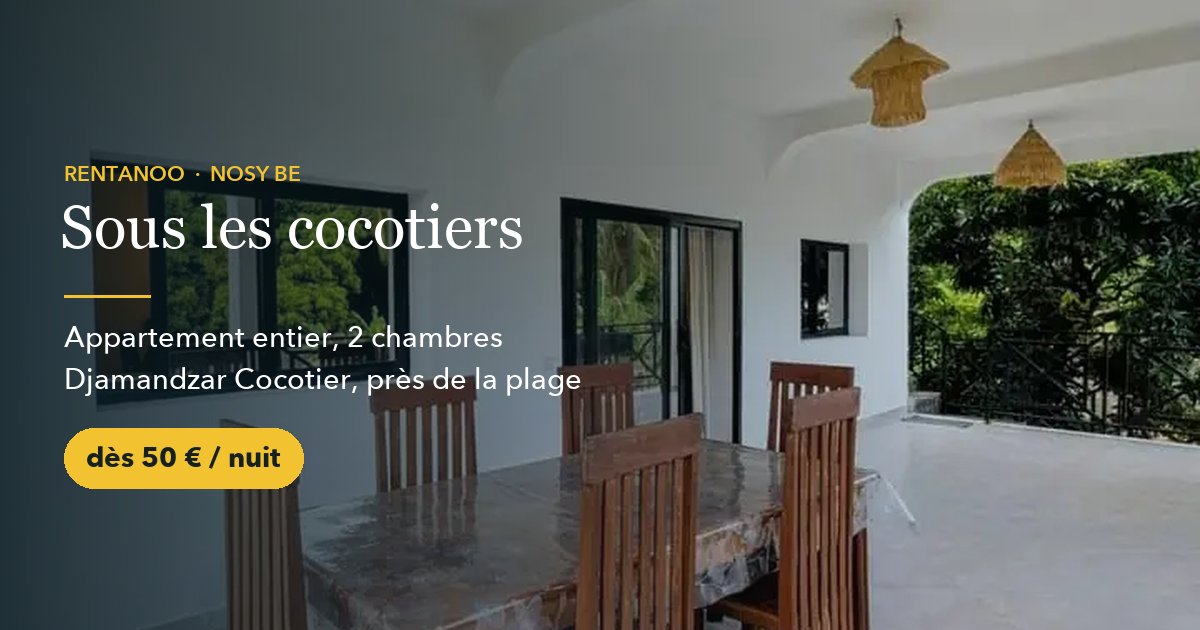
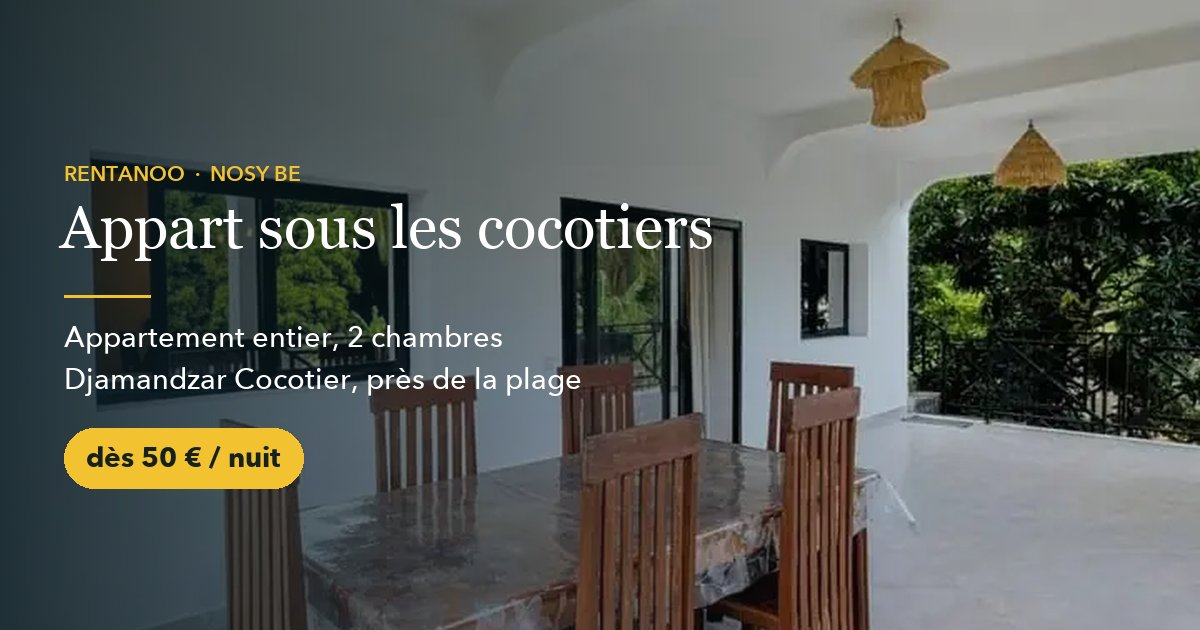
Nouvelle adresse appart-sous-les-cocotiers-dzamandzar.rentanoo.com, nom « Appart sous les cocotiers », bloc Taxi Food

Changed region(s): [[0.0308, 0.3317, 0.6167, 0.4222]]

diff --git a/index.html b/index.html
@@ -3,14 +3,14 @@
 <head>
 <meta charset="utf-8">
 <meta name="viewport" content="width=device-width, initial-scale=1">
-<title>Appartement 2 chambres sous les cocotiers, Djamandzar, Nosy Be — à deux pas de la plage</title>
+<title>Appart sous les cocotiers, Dzamandzar — 2 chambres à deux pas de la plage, Nosy Be</title>
 <meta name="description" content="Appartement entier de 2 chambres à Djamandzar Cocotier, Nosy Be, à deux pas de la plage : jusqu&#x27;à 4 personnes, grande terrasse, cuisine équipée, Wi-Fi Starlink, gardien. Meilleur tarif en direct.">
-<link rel="canonical" href="https://chambre-djamandzar.rentanoo.com/">
+<link rel="canonical" href="https://appart-sous-les-cocotiers-dzamandzar.rentanoo.com/">
 <meta name="robots" content="index, follow, max-image-preview:large, max-snippet:-1">
 <meta name="theme-color" content="#16211F">
 <meta name="author" content="Rentanoo">
 <meta name="geo.region" content="MG">
-<meta name="geo.placename" content="Djamandzar, Nosy Be">
+<meta name="geo.placename" content="Dzamandzar, Nosy Be">
 <link rel="icon" type="image/svg+xml" href="images/favicon.svg">
 
 <meta property="og:type" content="website">
@@ -18,23 +18,23 @@
 <meta property="og:locale" content="fr_FR">
 <meta property="og:locale:alternate" content="it_IT">
 <meta property="og:locale:alternate" content="en_US">
-<meta property="og:url" content="https://chambre-djamandzar.rentanoo.com/">
-<meta property="og:title" content="Sous les cocotiers — appartement 2 chambres près de la plage · Nosy Be">
+<meta property="og:url" content="https://appart-sous-les-cocotiers-dzamandzar.rentanoo.com/">
+<meta property="og:title" content="Appart sous les cocotiers, Dzamandzar — 2 chambres près de la plage · Nosy Be">
 <meta property="og:description" content="Appartement entier de 2 chambres à Djamandzar Cocotier, au milieu des cocotiers. Grande terrasse, cuisine équipée, Wi-Fi Starlink. Meilleur tarif en direct.">
-<meta property="og:image" content="https://chambre-djamandzar.rentanoo.com/images/og.jpg">
-<meta property="og:image:secure_url" content="https://chambre-djamandzar.rentanoo.com/images/og.jpg">
+<meta property="og:image" content="https://appart-sous-les-cocotiers-dzamandzar.rentanoo.com/images/og.jpg">
+<meta property="og:image:secure_url" content="https://appart-sous-les-cocotiers-dzamandzar.rentanoo.com/images/og.jpg">
 <meta property="og:image:type" content="image/jpeg">
 <meta property="og:image:width" content="1200">
 <meta property="og:image:height" content="630">
-<meta property="og:image:alt" content="Sous les cocotiers — Djamandzar, Nosy Be">
+<meta property="og:image:alt" content="Appart sous les cocotiers — Dzamandzar, Nosy Be">
 
 <meta name="twitter:card" content="summary_large_image">
-<meta name="twitter:title" content="Sous les cocotiers — appartement 2 chambres près de la plage · Nosy Be">
+<meta name="twitter:title" content="Appart sous les cocotiers, Dzamandzar — 2 chambres près de la plage · Nosy Be">
 <meta name="twitter:description" content="Appartement entier de 2 chambres à Djamandzar Cocotier, au milieu des cocotiers. Grande terrasse, cuisine équipée, Wi-Fi Starlink. Meilleur tarif en direct.">
-<meta name="twitter:image" content="https://chambre-djamandzar.rentanoo.com/images/og.jpg">
+<meta name="twitter:image" content="https://appart-sous-les-cocotiers-dzamandzar.rentanoo.com/images/og.jpg">
 
 <script type="application/ld+json">
-{"@type": "LodgingBusiness", "name": "Sous les cocotiers", "description": "Appartement entier à l'étage à Djamandzar Cocotier (Nosy Be), à deux pas de la plage : 2 chambres, jusqu'à 4 personnes, séjour avec TV, cuisine équipée, salle de bain avec douche et chauffe-eau, WC séparé, grande terrasse couverte avec barbecue, Wi-Fi Starlink, gardien, femme de ménage. Pas de climatisation (ventilateurs).", "url": "https://chambre-djamandzar.rentanoo.com/", "image": ["https://chambre-djamandzar.rentanoo.com/images/og.jpg", "https://chambre-djamandzar.rentanoo.com/images/repas-1.webp"], "telephone": "+261373437912", "email": "chrisrentanoo@gmail.com", "address": {"@type": "PostalAddress", "addressLocality": "Djamandzar", "addressRegion": "Nosy Be", "addressCountry": "MG"}, "areaServed": "Nosy Be", "amenityFeature": [{"@type": "LocationFeatureSpecification", "name": "Wifi Starlink", "value": true}, {"@type": "LocationFeatureSpecification", "name": "Salle de bain", "value": true}, {"@type": "LocationFeatureSpecification", "name": "Cuisine équipée", "value": true}, {"@type": "LocationFeatureSpecification", "name": "Terrasse", "value": true}, {"@type": "LocationFeatureSpecification", "name": "Barbecue", "value": true}, {"@type": "LocationFeatureSpecification", "name": "Gardien sur place", "value": true}, {"@type": "LocationFeatureSpecification", "name": "Femme de ménage", "value": true}, {"@type": "LocationFeatureSpecification", "name": "Espace de travail", "value": true}], "sameAs": ["https://rentanoo.com/hebergement/6D419168", "https://www.airbnb.fr/rooms/1805666649036033350", "https://www.booking.com/hotel/mg/appartement-2-chambres-sous-les-cocotiers-dzamandzar.html"], "numberOfRooms": 2, "priceRange": "À partir de 50 € la nuit", "currenciesAccepted": "EUR", "@context": "https://schema.org"}
+{"@type": "LodgingBusiness", "name": "Appart sous les cocotiers", "description": "Appartement entier à l'étage à Djamandzar Cocotier (Nosy Be), à deux pas de la plage : 2 chambres, jusqu'à 4 personnes, séjour avec TV, cuisine équipée, salle de bain avec douche et chauffe-eau, WC séparé, grande terrasse couverte avec barbecue, Wi-Fi Starlink, gardien, femme de ménage. Pas de climatisation (ventilateurs).", "url": "https://appart-sous-les-cocotiers-dzamandzar.rentanoo.com/", "image": ["https://appart-sous-les-cocotiers-dzamandzar.rentanoo.com/images/og.jpg", "https://appart-sous-les-cocotiers-dzamandzar.rentanoo.com/images/repas-1.webp"], "telephone": "+261373437912", "email": "chrisrentanoo@gmail.com", "address": {"@type": "PostalAddress", "addressLocality": "Dzamandzar", "addressRegion": "Nosy Be", "addressCountry": "MG"}, "areaServed": "Nosy Be", "amenityFeature": [{"@type": "LocationFeatureSpecification", "name": "Wifi Starlink", "value": true}, {"@type": "LocationFeatureSpecification", "name": "Salle de bain", "value": true}, {"@type": "LocationFeatureSpecification", "name": "Cuisine équipée", "value": true}, {"@type": "LocationFeatureSpecification", "name": "Terrasse", "value": true}, {"@type": "LocationFeatureSpecification", "name": "Barbecue", "value": true}, {"@type": "LocationFeatureSpecification", "name": "Gardien sur place", "value": true}, {"@type": "LocationFeatureSpecification", "name": "Femme de ménage", "value": true}, {"@type": "LocationFeatureSpecification", "name": "Espace de travail", "value": true}], "sameAs": ["https://rentanoo.com/hebergement/6D419168", "https://www.airbnb.fr/rooms/1805666649036033350", "https://www.booking.com/hotel/mg/appartement-2-chambres-sous-les-cocotiers-dzamandzar.html"], "numberOfRooms": 2, "priceRange": "À partir de 50 € la nuit", "currenciesAccepted": "EUR", "@context": "https://schema.org"}
 </script>
 
 <link rel="preconnect" href="https://fonts.googleapis.com">
@@ -230,6 +230,12 @@
   [data-reveal].in{opacity:1;transform:none}
   @media (prefers-reduced-motion:reduce){[data-reveal]{opacity:1;transform:none;transition:none}.hero picture img{animation:none}html{scroll-behavior:auto}}
 
+  .taxifood{padding:clamp(48px,6vw,80px) 0;background:#fff}
+  .tf-card{display:flex;gap:clamp(18px,4vw,40px);align-items:center;max-width:900px}
+  .tf-logo{width:clamp(96px,16vw,150px);height:auto;border-radius:24px;flex:none}
+  .tf-body .h2{margin:6px 0 10px}
+  .tf-body p{color:var(--ink-2)}
+  @media (max-width:640px){.tf-card{flex-direction:column;text-align:center}}
   .pf{min-height:52px}
   .pf-logo{height:24px;width:auto;display:block}
   .pf.best .pf-logo{height:26px}
@@ -275,7 +281,7 @@
 </svg>
 
 <header id="hdr">
-  <a class="brand" href="#top" aria-label="Sous les cocotiers"><b>Sous les cocotiers</b><small>Djamandzar · Nosy Be</small></a>
+  <a class="brand" href="#top" aria-label="Appart sous les cocotiers"><b>Appart sous les cocotiers</b><small>Dzamandzar · Nosy Be</small></a>
   <nav class="nav" aria-label="Navigation">
     <a class="nl" href="#presentation"><span data-i18n="k38">Le logement</span></a>
     <a class="nl" href="#pieces"><span data-i18n="k39">Pièce par pièce</span></a>
@@ -290,14 +296,14 @@
 </header>
 
 <main id="top">
-<section class="hero" aria-label="Sous les cocotiers">
+<section class="hero" aria-label="Appart sous les cocotiers">
   <picture>
     <source media="(max-width:760px)" srcset="images/repas-1-s.webp 613w, images/repas-1.webp 720w" sizes="100vw">
     <img src="images/repas-1.webp" alt="Appartement 2 chambres sous les cocotiers, terrasse couverte" width="720" height="940" fetchpriority="high">
   </picture>
   <div class="hero-in">
     <p data-i18n="k41" class="eyebrow">Djamandzar Cocotier · Nosy Be</p>
-    <h1>Sous les cocotiers</h1>
+    <h1>Appart sous les cocotiers</h1>
     <p data-i18n="k42" class="hero-sub">Un appartement entier de 2 chambres au milieu des cocotiers, à deux pas de la plage, avec grande terrasse et Wi-Fi Starlink.</p>
     <ul class="chips"><li><span data-i18n="k1">Appartement entier</span></li><li><span data-i18n="k2">Jusqu'à 4 personnes</span></li><li><span data-i18n="k3">Wifi Starlink</span></li><li><span data-i18n="k4">Minimum 3 nuits</span></li></ul>
     <div class="hero-row">
@@ -320,7 +326,7 @@
       
       
     </div>
-    <div class="mosaic" data-reveal><img src="images/repas-1-s.webp" srcset="images/repas-1-s.webp 613w, images/repas-1.webp 720w" sizes="(max-width:860px) 50vw, 25vw" alt="Sous les cocotiers" width="613" height="800" loading="lazy"><img src="images/chambre-1-s.webp" srcset="images/chambre-1-s.webp 600w, images/chambre-1.webp 718w" sizes="(max-width:860px) 50vw, 25vw" alt="Sous les cocotiers" width="600" height="800" loading="lazy"><img src="images/salon-1-s.webp" srcset="images/salon-1-s.webp 720w, images/salon-1.webp 720w" sizes="(max-width:860px) 50vw, 25vw" alt="Sous les cocotiers" width="720" height="549" loading="lazy"></div>
+    <div class="mosaic" data-reveal><img src="images/repas-1-s.webp" srcset="images/repas-1-s.webp 613w, images/repas-1.webp 720w" sizes="(max-width:860px) 50vw, 25vw" alt="Appart sous les cocotiers" width="613" height="800" loading="lazy"><img src="images/chambre-1-s.webp" srcset="images/chambre-1-s.webp 600w, images/chambre-1.webp 718w" sizes="(max-width:860px) 50vw, 25vw" alt="Appart sous les cocotiers" width="600" height="800" loading="lazy"><img src="images/salon-1-s.webp" srcset="images/salon-1-s.webp 720w, images/salon-1.webp 720w" sizes="(max-width:860px) 50vw, 25vw" alt="Appart sous les cocotiers" width="720" height="549" loading="lazy"></div>
   </div>
 </section>
 
@@ -392,13 +398,25 @@
   </div>
 </section>
 
+<section class="taxifood" id="taxi-food" aria-label="Taxi Food, livraison de repas">
+  <div class="wrap tf-card" data-reveal>
+    <img class="tf-logo" src="images/taxifood-logo.webp" width="256" height="256" alt="Logo Taxi Food Nosy Be" loading="lazy" decoding="async">
+    <div class="tf-body">
+      <p data-i18n="k48" class="eyebrow">Taxi Food · Livraison à Nosy Be</p>
+      <h2 data-i18n="k49" class="h2">La flemme de cuisiner ? Faites-vous livrer.</h2>
+      <p data-i18n="k50">Avec Taxi Food, commandez auprès des restaurants de Nosy Be et faites-vous livrer directement au logement. Pizza, burger, tacos ou crêpes : il ne reste plus qu'à mettre les pieds sous la table.</p>
+      <a class="btn btn-cta" href="https://taxifoodnosybe.distripro207.com/" target="_blank" rel="noopener"><span data-i18n="k51">Commander sur Taxi Food</span></a>
+    </div>
+  </div>
+</section>
+
 <section class="host" aria-label="Votre hôte">
   <div class="wrap host-grid">
     <img src="images/chris.webp" alt="Chris, Rentanoo" width="1000" height="1090" loading="lazy" data-reveal>
     <div data-reveal>
       <p data-i18n="host-eyebrow" class="eyebrow">Réservation</p>
       <h2 data-i18n="host-title" class="h2">Bonjour, c'est Chris</h2>
-      <p data-i18n="k48">Avec Rentanoo, j'accueille des voyageurs à Nosy Be toute l'année et je gère les réservations de plusieurs logements sur l'île, dont celui-ci. Mon métier : vous rendre le séjour facile.</p>
+      <p data-i18n="k52">Avec Rentanoo, j'accueille des voyageurs à Nosy Be toute l'année et je gère les réservations de plusieurs logements sur l'île, dont celui-ci. Mon métier : vous rendre le séjour facile.</p>
       <p data-i18n="host-2">Je réponds vite, du matin au soir, en français, en anglais ou en italien.</p>
       <p style="font-weight:600;color:var(--ink);margin-top:22px"><span data-i18n="svc-title">Sur demande, Rentanoo organise aussi :</span></p>
       <div class="svc">
@@ -421,7 +439,7 @@
     </div>
     <form id="resa-form" novalidate data-reveal>
       <div class="resa-grid">
-        <input type="hidden" name="logement" value="Sous les cocotiers">
+        <input type="hidden" name="logement" value="Appart sous les cocotiers">
         <label class="resa-field"><span data-i18n="f-in">Arrivée</span><input type="date" name="arrivee" required></label>
         <label class="resa-field"><span data-i18n="f-out">Départ</span><input type="date" name="depart" required></label>
         <label class="resa-field full"><span data-i18n="f-guests">Voyageurs</span><select name="voyageurs"><option>1</option><option selected>2</option><option>3</option><option>4</option></select></label>
@@ -439,7 +457,7 @@
       <span data-i18n="alt-text">Vous préférez écrire ?</span>
       <div class="row">
         <a class="btn btn-wa" href="#" data-wa="resa"><svg><use href="#i-wa"/></svg>WhatsApp +261 37 34 379 12</a>
-        <a class="btn btn-ghost" href="mailto:chrisrentanoo@gmail.com?subject=Sous les cocotiers">chrisrentanoo@gmail.com</a>
+        <a class="btn btn-ghost" href="mailto:chrisrentanoo@gmail.com?subject=Appart sous les cocotiers">chrisrentanoo@gmail.com</a>
       </div>
     </div>
   </div>
@@ -456,7 +474,7 @@
 
 <footer>
   <div class="wrap">
-    <div><b style="color:#fff;font-family:'Fraunces',serif;font-weight:400;font-size:18px">Sous les cocotiers</b><br>Djamandzar, Nosy Be · Madagascar</div>
+    <div><b style="color:#fff;font-family:'Fraunces',serif;font-weight:400;font-size:18px">Appart sous les cocotiers</b><br>Dzamandzar, Nosy Be · Madagascar</div>
     <div><a href="#" data-wa="footer">WhatsApp +261 37 34 379 12</a><br><a href="mailto:chrisrentanoo@gmail.com">chrisrentanoo@gmail.com</a></div>
     <a class="powered" href="https://rentanoo.com" target="_blank" rel="noopener"><span data-i18n="ft-powered">Site propulsé par</span> <img src="images/rentanoo-logo.webp" alt="Rentanoo" width="520" height="132" loading="lazy"></a>
   </div>
@@ -514,11 +532,11 @@ if('IntersectionObserver' in window){var io=new IntersectionObserver(function(es
 else document.querySelectorAll('[data-reveal]').forEach(function(el){el.classList.add('in')});
 
 /* Traductions : FR dans le HTML, IT/EN ici (générées par build.py, clé = data-i18n) */
-var T={"k1": {"it": "Appartamento intero", "en": "Whole apartment"}, "k2": {"it": "Fino a 4 persone", "en": "Up to 4 guests"}, "k3": {"it": "Wi-Fi Starlink", "en": "Starlink Wi-Fi"}, "k4": {"it": "Minimo 3 notti", "en": "3-night minimum"}, "k5": {"it": "Appartamento intero, 2 camere", "en": "Whole apartment, 2 bedrooms"}, "k6": {"it": "Fino a 4 persone", "en": "Up to 4 guests"}, "k7": {"it": "A due passi dalla spiaggia", "en": "A short walk from the beach"}, "k8": {"it": "Wi-Fi Starlink", "en": "Starlink Wi-Fi"}, "k9": {"it": "Grande terrazza con barbecue", "en": "Large terrace with barbecue"}, "k10": {"it": "Netflix sulla TV del soggiorno", "en": "Netflix on the living-room TV"}, "k11": {"it": "Custode sul posto", "en": "Caretaker on site"}, "k12": {"it": "Governante", "en": "Housekeeper"}, "k13": {"it": "Un appartamento intero al primo piano, a Djamandzar Cocotier, a due passi dalla spiaggia.", "en": "A whole upstairs apartment in Djamandzar Cocotier, a short walk from the beach."}, "k14": {"it": "2 camere, un soggiorno luminoso con TV e Netflix, una cucina attrezzata con bancone, un bagno con doppio lavabo, doccia e scaldabagno, e un WC separato. Fuori, una grande terrazza coperta con tavolo e barbecue, davanti al giardino e alle palme.", "en": "2 bedrooms, a bright living room with TV and Netflix, an equipped kitchen with a bar, a bathroom with a double basin, shower and water heater, and a separate WC. Outside, a large covered terrace with a table and barbecue, facing the garden and the palms."}, "k15": {"it": "Wi-Fi Starlink e spazio per lavorare. Niente aria condizionata: ventilatori a parete in soggiorno e 2 ventilatori per camera, vetri anti-calore e zanzariere ovunque. Custode e governante sul posto.", "en": "Starlink Wi-Fi and a spot to work from. No air conditioning: wall fans in the living room and 2 fans in each bedroom, heat-filtering windows and mosquito screens throughout. Caretaker and housekeeper on site."}, "k16": {"it": "A due passi dai ristoranti del Nosy Be Hotel e dai bar di Djamandzar.", "en": "A stone's throw from the Nosy Be Hotel restaurants and the bars of Djamandzar."}, "k17": {"it": "Le camere", "en": "The bedrooms"}, "k18": {"it": "2 camere", "en": "2 bedrooms"}, "k19": {"it": "Fino a 4 persone", "en": "Up to 4 guests"}, "k20": {"it": "Soggiorno minimo 3 notti", "en": "3-night minimum stay"}, "k21": {"it": "Cancellazione gratuita fino a 72 ore prima dell'arrivo", "en": "Free cancellation up to 72 h before arrival"}, "k22": {"it": "Massimo 4 persone", "en": "4 guests maximum"}, "k23": {"it": "Le 2 camere", "en": "The 2 bedrooms"}, "k24": {"it": "Due camere, ognuna con 2 ventilatori, vetri anti-calore e zanzariere.", "en": "Two bedrooms, each with 2 fans, heat-filtering windows and mosquito screens."}, "see-photos": {"it": "Vedi le foto", "en": "See the photos"}, "k25": {"it": "Soggiorno, cucina e terrazza", "en": "Living room, kitchen & terrace"}, "k26": {"it": "Cucina attrezzata", "en": "Equipped kitchen"}, "k27": {"it": "Terrazza", "en": "Terrace"}, "k28": {"it": "Barbecue", "en": "Barbecue"}, "k29": {"it": "Soggiorno, cucina e terrazza", "en": "Living room, kitchen & terrace"}, "k30": {"it": "Una cucina attrezzata con bancone e sgabelli, un soggiorno con TV e Netflix, e una grande terrazza coperta con tavolo e barbecue, davanti al giardino.", "en": "An equipped kitchen with a bar and stools, a living room with TV and Netflix, and a large covered terrace with a table and barbecue, facing the garden."}, "k31": {"it": "Bagno", "en": "Bathroom"}, "k32": {"it": "Doccia", "en": "Shower"}, "k33": {"it": "Acqua calda", "en": "Hot water"}, "k34": {"it": "WC separato", "en": "Separate WC"}, "k35": {"it": "Il bagno", "en": "The bathroom"}, "k36": {"it": "Un bagno con doppio lavabo, doccia e scaldabagno, e un WC separato.", "en": "A bathroom with a double basin, shower and water heater, plus a separate WC."}, "from": {"it": "da", "en": "from"}, "per-night": {"it": "a notte", "en": "per night"}, "k37": {"it": "La tariffa migliore è prenotando direttamente · risposta rapida su WhatsApp", "en": "The best rate is when you book direct · quick reply on WhatsApp"}, "cta-book": {"it": "Prenota", "en": "Book"}, "cta-dates": {"it": "Chiedi le tue date", "en": "Request your dates"}, "best": {"it": "Tariffa migliore prenotando direttamente", "en": "Best rate when you book direct"}, "pf-best": {"it": "Tariffa migliore", "en": "Best rate"}, "k38": {"it": "L'alloggio", "en": "The place"}, "k39": {"it": "Stanza per stanza", "en": "Room by room"}, "k40": {"it": "Il quartiere", "en": "The area"}, "k41": {"it": "Djamandzar Cocotier · Nosy Be", "en": "Djamandzar Cocotier · Nosy Be"}, "k42": {"it": "Un appartamento intero con 2 camere tra le palme da cocco, a due passi dalla spiaggia, con grande terrazza e Wi-Fi Starlink.", "en": "A whole 2-bedroom apartment among the coconut palms, a short walk from the beach, with a large terrace and Starlink Wi-Fi."}, "k43": {"it": "Appartamento intero", "en": "Whole apartment"}, "k44": {"it": "Tra le palme da cocco", "en": "Among the coconut palms"}, "direct-eyebrow": {"it": "Prenota direttamente", "en": "Book direct"}, "direct-title": {"it": "La tariffa migliore è qui", "en": "The best rate is here"}, "direct-text": {"it": "Sulle piattaforme il prezzo a notte include le loro commissioni. Prenotando direttamente con noi pagate meno: inviateci le date e vi rispondiamo con il prezzo migliore.", "en": "On booking platforms, the nightly price includes their commissions. Book directly with us and you pay less: send us your dates and we reply with the best price."}, "direct-1": {"it": "Più conveniente delle piattaforme per le stesse date", "en": "Cheaper than the platforms for the same dates"}, "direct-2": {"it": "Parlate direttamente con noi, risposta rapida su WhatsApp", "en": "You talk directly to us, quick replies on WhatsApp"}, "direct-3": {"it": "Transfer, scooter, auto o escursione organizzati subito", "en": "Transfer, scooter, car or excursion arranged in one go"}, "rooms-eyebrow": {"it": "Stanza per stanza", "en": "Room by room"}, "k45": {"it": "Visitate l'alloggio", "en": "Take the tour"}, "rooms-lead": {"it": "Tutte le foto sono dell'alloggio. Toccate una foto per ingrandirla.", "en": "All photos are of the place itself. Tap a photo to enlarge it."}, "area-eyebrow": {"it": "Il quartiere", "en": "The area"}, "k46": {"it": "Djamandzar, tra le palme da cocco", "en": "Djamandzar, among the coconut palms"}, "k47": {"it": "Djamandzar Cocotier, sulla costa ovest di Nosy Be: la spiaggia a due passi, i ristoranti del Nosy Be Hotel e i bar della zona vicinissimi.", "en": "Djamandzar Cocotier, on the west coast of Nosy Be: the beach a short walk away, the Nosy Be Hotel restaurants and the local bars close by."}, "host-eyebrow": {"it": "Prenotazione", "en": "Booking"}, "host-title": {"it": "Ciao, sono Chris", "en": "Hi, I'm Chris"}, "k48": {"it": "Con Rentanoo accolgo viaggiatori a Nosy Be tutto l'anno e gestisco le prenotazioni di diversi alloggi sull'isola, tra cui questo. Il mio lavoro è rendervi il soggiorno facile.", "en": "With Rentanoo I welcome travellers to Nosy Be all year round and handle bookings for several places on the island, including this one. My job is to make your stay easy."}, "host-2": {"it": "Rispondo rapidamente, dalla mattina alla sera, in francese, inglese o italiano.", "en": "I reply quickly, from morning to evening, in French, English or Italian."}, "svc-title": {"it": "Su richiesta, Rentanoo organizza anche:", "en": "On request, Rentanoo also arranges:"}, "svc-1": {"it": "Transfer dall'aeroporto", "en": "Airport transfer"}, "svc-2": {"it": "Noleggio di scooter o quad", "en": "Scooter or quad rental"}, "svc-3": {"it": "Escursioni e taxi-boat", "en": "Excursions and taxi-boat"}, "svc-4": {"it": "Auto con o senza autista", "en": "Car with or without a driver"}, "resa-eyebrow": {"it": "Prenotazione", "en": "Booking"}, "resa-title": {"it": "Chiedete le vostre date", "en": "Request your dates"}, "resa-text": {"it": "Scegliete le date e lasciateci i vostri recapiti: vi ricontattiamo molto presto con la disponibilità e il prezzo migliore.", "en": "Pick your dates and leave your details: we will get back to you very quickly with availability and the best price."}, "f-in": {"it": "Arrivo", "en": "Check-in"}, "f-out": {"it": "Partenza", "en": "Check-out"}, "f-guests": {"it": "Ospiti", "en": "Guests"}, "f-first": {"it": "Nome", "en": "First name"}, "f-last": {"it": "Cognome", "en": "Last name"}, "f-tel": {"it": "Telefono (WhatsApp)", "en": "Phone (WhatsApp)"}, "f-mail": {"it": "E-mail", "en": "Email"}, "f-msg": {"it": "Messaggio (facoltativo): transfer, scooter, escursione…", "en": "Message (optional): transfer, scooter, excursion…"}, "f-send": {"it": "Invia la richiesta", "en": "Send my request"}, "f-free": {"it": "Gratis e senza impegno · risposta rapida", "en": "Free, no commitment · quick reply"}, "alt-text": {"it": "Preferite scrivere?", "en": "Prefer to write?"}, "pf-eyebrow": {"it": "Anche online su", "en": "Also listed on"}, "pf-text": {"it": "Preferite passare da una piattaforma? Trovate l'alloggio qui.", "en": "Prefer to use a platform? Find the place here."}, "ft-powered": {"it": "Sito realizzato da", "en": "Site powered by"}};
-var TITLE={"fr": "Appartement 2 chambres sous les cocotiers, Djamandzar, Nosy Be — à deux pas de la plage", "it": "Appartamento con 2 camere a Djamandzar Cocotier, Nosy Be — a due passi dalla spiaggia", "en": "2-bedroom apartment at Djamandzar Cocotier, Nosy Be — a short walk from the beach"};
+var T={"k1": {"it": "Appartamento intero", "en": "Whole apartment"}, "k2": {"it": "Fino a 4 persone", "en": "Up to 4 guests"}, "k3": {"it": "Wi-Fi Starlink", "en": "Starlink Wi-Fi"}, "k4": {"it": "Minimo 3 notti", "en": "3-night minimum"}, "k5": {"it": "Appartamento intero, 2 camere", "en": "Whole apartment, 2 bedrooms"}, "k6": {"it": "Fino a 4 persone", "en": "Up to 4 guests"}, "k7": {"it": "A due passi dalla spiaggia", "en": "A short walk from the beach"}, "k8": {"it": "Wi-Fi Starlink", "en": "Starlink Wi-Fi"}, "k9": {"it": "Grande terrazza con barbecue", "en": "Large terrace with barbecue"}, "k10": {"it": "Netflix sulla TV del soggiorno", "en": "Netflix on the living-room TV"}, "k11": {"it": "Custode sul posto", "en": "Caretaker on site"}, "k12": {"it": "Governante", "en": "Housekeeper"}, "k13": {"it": "Un appartamento intero al primo piano, a Djamandzar Cocotier, a due passi dalla spiaggia.", "en": "A whole upstairs apartment in Djamandzar Cocotier, a short walk from the beach."}, "k14": {"it": "2 camere, un soggiorno luminoso con TV e Netflix, una cucina attrezzata con bancone, un bagno con doppio lavabo, doccia e scaldabagno, e un WC separato. Fuori, una grande terrazza coperta con tavolo e barbecue, davanti al giardino e alle palme.", "en": "2 bedrooms, a bright living room with TV and Netflix, an equipped kitchen with a bar, a bathroom with a double basin, shower and water heater, and a separate WC. Outside, a large covered terrace with a table and barbecue, facing the garden and the palms."}, "k15": {"it": "Wi-Fi Starlink e spazio per lavorare. Niente aria condizionata: ventilatori a parete in soggiorno e 2 ventilatori per camera, vetri anti-calore e zanzariere ovunque. Custode e governante sul posto.", "en": "Starlink Wi-Fi and a spot to work from. No air conditioning: wall fans in the living room and 2 fans in each bedroom, heat-filtering windows and mosquito screens throughout. Caretaker and housekeeper on site."}, "k16": {"it": "A due passi dai ristoranti del Nosy Be Hotel e dai bar di Djamandzar.", "en": "A stone's throw from the Nosy Be Hotel restaurants and the bars of Djamandzar."}, "k17": {"it": "Le camere", "en": "The bedrooms"}, "k18": {"it": "2 camere", "en": "2 bedrooms"}, "k19": {"it": "Fino a 4 persone", "en": "Up to 4 guests"}, "k20": {"it": "Soggiorno minimo 3 notti", "en": "3-night minimum stay"}, "k21": {"it": "Cancellazione gratuita fino a 72 ore prima dell'arrivo", "en": "Free cancellation up to 72 h before arrival"}, "k22": {"it": "Massimo 4 persone", "en": "4 guests maximum"}, "k23": {"it": "Le 2 camere", "en": "The 2 bedrooms"}, "k24": {"it": "Due camere, ognuna con 2 ventilatori, vetri anti-calore e zanzariere.", "en": "Two bedrooms, each with 2 fans, heat-filtering windows and mosquito screens."}, "see-photos": {"it": "Vedi le foto", "en": "See the photos"}, "k25": {"it": "Soggiorno, cucina e terrazza", "en": "Living room, kitchen & terrace"}, "k26": {"it": "Cucina attrezzata", "en": "Equipped kitchen"}, "k27": {"it": "Terrazza", "en": "Terrace"}, "k28": {"it": "Barbecue", "en": "Barbecue"}, "k29": {"it": "Soggiorno, cucina e terrazza", "en": "Living room, kitchen & terrace"}, "k30": {"it": "Una cucina attrezzata con bancone e sgabelli, un soggiorno con TV e Netflix, e una grande terrazza coperta con tavolo e barbecue, davanti al giardino.", "en": "An equipped kitchen with a bar and stools, a living room with TV and Netflix, and a large covered terrace with a table and barbecue, facing the garden."}, "k31": {"it": "Bagno", "en": "Bathroom"}, "k32": {"it": "Doccia", "en": "Shower"}, "k33": {"it": "Acqua calda", "en": "Hot water"}, "k34": {"it": "WC separato", "en": "Separate WC"}, "k35": {"it": "Il bagno", "en": "The bathroom"}, "k36": {"it": "Un bagno con doppio lavabo, doccia e scaldabagno, e un WC separato.", "en": "A bathroom with a double basin, shower and water heater, plus a separate WC."}, "from": {"it": "da", "en": "from"}, "per-night": {"it": "a notte", "en": "per night"}, "k37": {"it": "La tariffa migliore è prenotando direttamente · risposta rapida su WhatsApp", "en": "The best rate is when you book direct · quick reply on WhatsApp"}, "cta-book": {"it": "Prenota", "en": "Book"}, "cta-dates": {"it": "Chiedi le tue date", "en": "Request your dates"}, "best": {"it": "Tariffa migliore prenotando direttamente", "en": "Best rate when you book direct"}, "pf-best": {"it": "Tariffa migliore", "en": "Best rate"}, "k38": {"it": "L'alloggio", "en": "The place"}, "k39": {"it": "Stanza per stanza", "en": "Room by room"}, "k40": {"it": "Il quartiere", "en": "The area"}, "k41": {"it": "Djamandzar Cocotier · Nosy Be", "en": "Djamandzar Cocotier · Nosy Be"}, "k42": {"it": "Un appartamento intero con 2 camere tra le palme da cocco, a due passi dalla spiaggia, con grande terrazza e Wi-Fi Starlink.", "en": "A whole 2-bedroom apartment among the coconut palms, a short walk from the beach, with a large terrace and Starlink Wi-Fi."}, "k43": {"it": "Appartamento intero", "en": "Whole apartment"}, "k44": {"it": "Tra le palme da cocco", "en": "Among the coconut palms"}, "direct-eyebrow": {"it": "Prenota direttamente", "en": "Book direct"}, "direct-title": {"it": "La tariffa migliore è qui", "en": "The best rate is here"}, "direct-text": {"it": "Sulle piattaforme il prezzo a notte include le loro commissioni. Prenotando direttamente con noi pagate meno: inviateci le date e vi rispondiamo con il prezzo migliore.", "en": "On booking platforms, the nightly price includes their commissions. Book directly with us and you pay less: send us your dates and we reply with the best price."}, "direct-1": {"it": "Più conveniente delle piattaforme per le stesse date", "en": "Cheaper than the platforms for the same dates"}, "direct-2": {"it": "Parlate direttamente con noi, risposta rapida su WhatsApp", "en": "You talk directly to us, quick replies on WhatsApp"}, "direct-3": {"it": "Transfer, scooter, auto o escursione organizzati subito", "en": "Transfer, scooter, car or excursion arranged in one go"}, "rooms-eyebrow": {"it": "Stanza per stanza", "en": "Room by room"}, "k45": {"it": "Visitate l'alloggio", "en": "Take the tour"}, "rooms-lead": {"it": "Tutte le foto sono dell'alloggio. Toccate una foto per ingrandirla.", "en": "All photos are of the place itself. Tap a photo to enlarge it."}, "area-eyebrow": {"it": "Il quartiere", "en": "The area"}, "k46": {"it": "Djamandzar, tra le palme da cocco", "en": "Djamandzar, among the coconut palms"}, "k47": {"it": "Djamandzar Cocotier, sulla costa ovest di Nosy Be: la spiaggia a due passi, i ristoranti del Nosy Be Hotel e i bar della zona vicinissimi.", "en": "Djamandzar Cocotier, on the west coast of Nosy Be: the beach a short walk away, the Nosy Be Hotel restaurants and the local bars close by."}, "k48": {"it": "Taxi Food · Consegna a Nosy Be", "en": "Taxi Food · Delivery in Nosy Be"}, "k49": {"it": "Niente voglia di cucinare? Fatevi consegnare.", "en": "Not in the mood to cook? Get it delivered."}, "k50": {"it": "Con Taxi Food ordinate dai ristoranti di Nosy Be e fatevi consegnare direttamente all'alloggio. Pizza, burger, tacos o crêpes: basta mettersi a tavola.", "en": "With Taxi Food, order from Nosy Be's restaurants and have it delivered straight to your door. Pizza, burgers, tacos or crêpes: just sit down and enjoy."}, "k51": {"it": "Ordina su Taxi Food", "en": "Order on Taxi Food"}, "host-eyebrow": {"it": "Prenotazione", "en": "Booking"}, "host-title": {"it": "Ciao, sono Chris", "en": "Hi, I'm Chris"}, "k52": {"it": "Con Rentanoo accolgo viaggiatori a Nosy Be tutto l'anno e gestisco le prenotazioni di diversi alloggi sull'isola, tra cui questo. Il mio lavoro è rendervi il soggiorno facile.", "en": "With Rentanoo I welcome travellers to Nosy Be all year round and handle bookings for several places on the island, including this one. My job is to make your stay easy."}, "host-2": {"it": "Rispondo rapidamente, dalla mattina alla sera, in francese, inglese o italiano.", "en": "I reply quickly, from morning to evening, in French, English or Italian."}, "svc-title": {"it": "Su richiesta, Rentanoo organizza anche:", "en": "On request, Rentanoo also arranges:"}, "svc-1": {"it": "Transfer dall'aeroporto", "en": "Airport transfer"}, "svc-2": {"it": "Noleggio di scooter o quad", "en": "Scooter or quad rental"}, "svc-3": {"it": "Escursioni e taxi-boat", "en": "Excursions and taxi-boat"}, "svc-4": {"it": "Auto con o senza autista", "en": "Car with or without a driver"}, "resa-eyebrow": {"it": "Prenotazione", "en": "Booking"}, "resa-title": {"it": "Chiedete le vostre date", "en": "Request your dates"}, "resa-text": {"it": "Scegliete le date e lasciateci i vostri recapiti: vi ricontattiamo molto presto con la disponibilità e il prezzo migliore.", "en": "Pick your dates and leave your details: we will get back to you very quickly with availability and the best price."}, "f-in": {"it": "Arrivo", "en": "Check-in"}, "f-out": {"it": "Partenza", "en": "Check-out"}, "f-guests": {"it": "Ospiti", "en": "Guests"}, "f-first": {"it": "Nome", "en": "First name"}, "f-last": {"it": "Cognome", "en": "Last name"}, "f-tel": {"it": "Telefono (WhatsApp)", "en": "Phone (WhatsApp)"}, "f-mail": {"it": "E-mail", "en": "Email"}, "f-msg": {"it": "Messaggio (facoltativo): transfer, scooter, escursione…", "en": "Message (optional): transfer, scooter, excursion…"}, "f-send": {"it": "Invia la richiesta", "en": "Send my request"}, "f-free": {"it": "Gratis e senza impegno · risposta rapida", "en": "Free, no commitment · quick reply"}, "alt-text": {"it": "Preferite scrivere?", "en": "Prefer to write?"}, "pf-eyebrow": {"it": "Anche online su", "en": "Also listed on"}, "pf-text": {"it": "Preferite passare da una piattaforma? Trovate l'alloggio qui.", "en": "Prefer to use a platform? Find the place here."}, "ft-powered": {"it": "Sito realizzato da", "en": "Site powered by"}};
+var TITLE={"fr": "Appart sous les cocotiers, Dzamandzar — 2 chambres à deux pas de la plage, Nosy Be", "it": "Appartamento sotto le palme, Dzamandzar — 2 camere a due passi dalla spiaggia, Nosy Be", "en": "Apartment under the palms, Dzamandzar — 2 bedrooms a short walk from the beach, Nosy Be"};
 var MSG={"ok": {"fr": "✅ Demande envoyée ! Un e-mail de confirmation arrive dans votre boîte. On revient vers vous très vite.", "it": "✅ Richiesta inviata! Vi ricontattiamo molto presto.", "en": "✅ Request sent! We'll get back to you very soon."}, "req": {"fr": "Merci de remplir les champs requis.", "it": "Compilate i campi obbligatori.", "en": "Please fill in the required fields."}, "dates": {"fr": "La date de départ doit être après l'arrivée.", "it": "La data di partenza deve essere dopo l'arrivo.", "en": "Check-out must be after check-in."}, "err": {"fr": "Une erreur est survenue. Réessayez, ou écrivez-nous à ", "it": "Si è verificato un errore. Riprovate o scriveteci a ", "en": "Something went wrong. Please try again, or write to "}, "sending": {"fr": "Envoi…", "it": "Invio…", "en": "Sending…"}};
 var WA_NUM='261373437912';
-var WA_TXT={"fr": "Bonjour, je suis intéressé(e) par Sous les cocotiers à Nosy Be. Mes dates : ", "it": "Buongiorno, sono interessato/a a Sous les cocotiers a Nosy Be. Le mie date: ", "en": "Hello, I'm interested in Sous les cocotiers in Nosy Be. My dates: "};
+var WA_TXT={"fr": "Bonjour, je suis intéressé(e) par Appart sous les cocotiers à Nosy Be. Mes dates : ", "it": "Buongiorno, sono interessato/a a Appart sous les cocotiers a Nosy Be. Le mie date: ", "en": "Hello, I'm interested in Appart sous les cocotiers in Nosy Be. My dates: "};
 var lang='fr';
 document.querySelectorAll('[data-i18n]').forEach(function(el){el._fr=el.innerHTML});
 function setLang(l){
@@ -527,16 +545,16 @@ function setLang(l){
   document.documentElement.lang=lang; document.title=TITLE[lang];
   document.querySelectorAll('.langs button').forEach(function(b){b.setAttribute('aria-pressed',b.getAttribute('data-lang')===lang?'true':'false')});
   document.querySelectorAll('[data-wa]').forEach(function(a){a.href='https://wa.me/'+WA_NUM+'?text='+encodeURIComponent(WA_TXT[lang]);a.target='_blank';a.rel='noopener'});
-  try{localStorage.setItem('chambre-djamandzar_lang',lang)}catch(e){}
+  try{localStorage.setItem('appart-sous-les-cocotiers-dzamandzar_lang',lang)}catch(e){}
 }
 document.querySelectorAll('.langs button').forEach(function(b){b.addEventListener('click',function(){setLang(b.getAttribute('data-lang'))})});
-(function(){var q=(location.search.match(/[?&]lang=(fr|it|en)/)||[])[1],s=null;try{s=localStorage.getItem('chambre-djamandzar_lang')}catch(e){}
+(function(){var q=(location.search.match(/[?&]lang=(fr|it|en)/)||[])[1],s=null;try{s=localStorage.getItem('appart-sous-les-cocotiers-dzamandzar_lang')}catch(e){}
   var nav=(navigator.language||'fr').slice(0,2);setLang(q||s||(nav==='it'||nav==='en'?nav:'fr'));})();
 
-/* Formulaire → webhook n8n « reservation » (workflow W3E3K3avrQ60mgWg, site 'chambre-djamandzar') */
+/* Formulaire → webhook n8n « reservation » (workflow W3E3K3avrQ60mgWg, site 'appart-sous-les-cocotiers-dzamandzar') */
 (function(){
   var form=document.getElementById('resa-form'),msg=document.getElementById('resa-msg');
-  var WEBHOOK='https://n8n.srv1285649.hstgr.cloud/webhook/reservation',SITE='chambre-djamandzar';
+  var WEBHOOK='https://n8n.srv1285649.hstgr.cloud/webhook/reservation',SITE='appart-sous-les-cocotiers-dzamandzar';
   var today=new Date().toISOString().slice(0,10),arr=form.querySelector('[name=arrivee]'),dep=form.querySelector('[name=depart]');
   arr.min=today;dep.min=today;arr.addEventListener('change',function(){dep.min=arr.value||today});
   function show(t,c){msg.innerHTML=t;msg.style.color=c}
